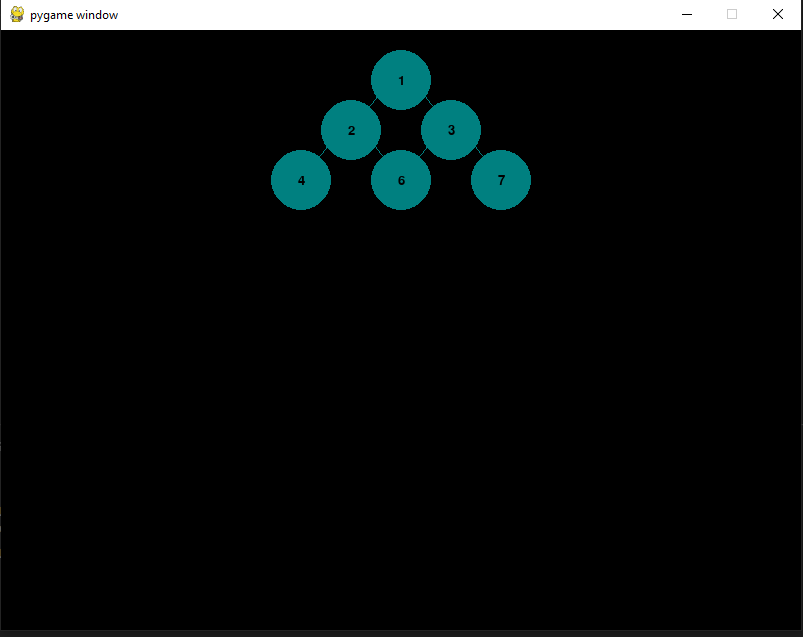
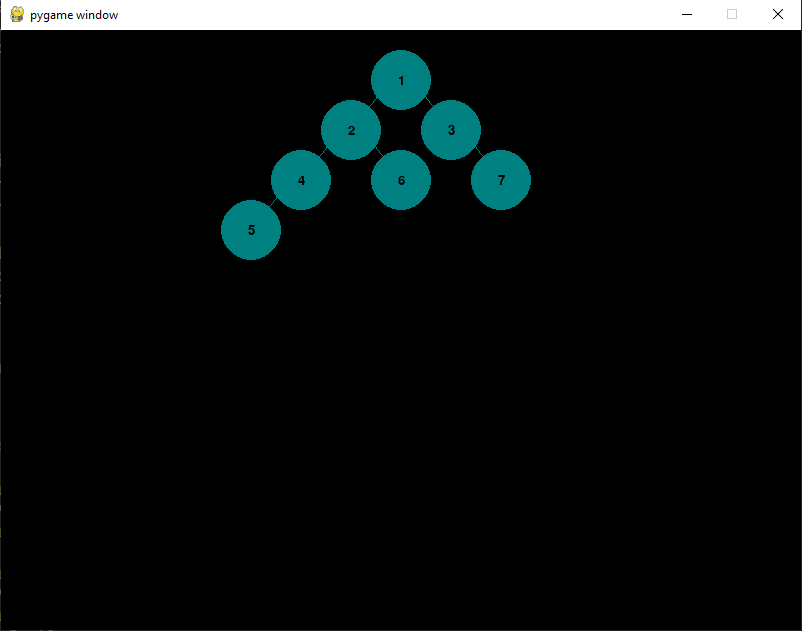
Updated code to remove the bug where it two nodes share another node

diff --git a/binary_tree.py b/binary_tree.py
@@ -1,6 +1,24 @@
 class Node:
 
-    def __init__(self, root, left=None, right=None) -> None:
+    def __init__(self, root, left=None, right=None, x=0, y=0) -> None:
         self.root = root
         self.left = left
         self.right = right
+        self.x = x
+        self.y = y
+
+    def insert(self, value):
+        if value < self.root:
+            if self.left is None:
+                self.x -= 50
+                self.y += 50
+                self.left = Node(value, x=self.x, y=self.y)
+            else:
+                self.left.insert(value)
+        else:
+            if self.right is None:
+                self.x += 50
+                self.y += 50
+                self.right = Node(value, x=self.x, y=self.y)
+            else:
+                self.right.insert(value)

diff --git a/main.py b/main.py
@@ -1,11 +1,12 @@
 import pygame
+
 from binary_tree import Node
 
 pygame.init()
 window = pygame.display.set_mode((800, 600))
 
-# Need to update this to take users input
-root = Node(1, Node(2, Node(4), Node(5)), Node(3, Node(6), Node(7)))
+# Define the binary tree
+root = Node(1, Node(2, Node(4, Node(5)), Node(6)), Node(3, None, Node(7)))
 
 def draw_tree(node, x, y):
     if node:
@@ -21,8 +22,6 @@ def draw_tree(node, x, y):
         if node.right:
             pygame.draw.line(window, (0,128,128), (x, y-15), (x+50, y+50))
             draw_tree(node.right, x+50, y+50)
-
-
 
 def main():
     running = True
